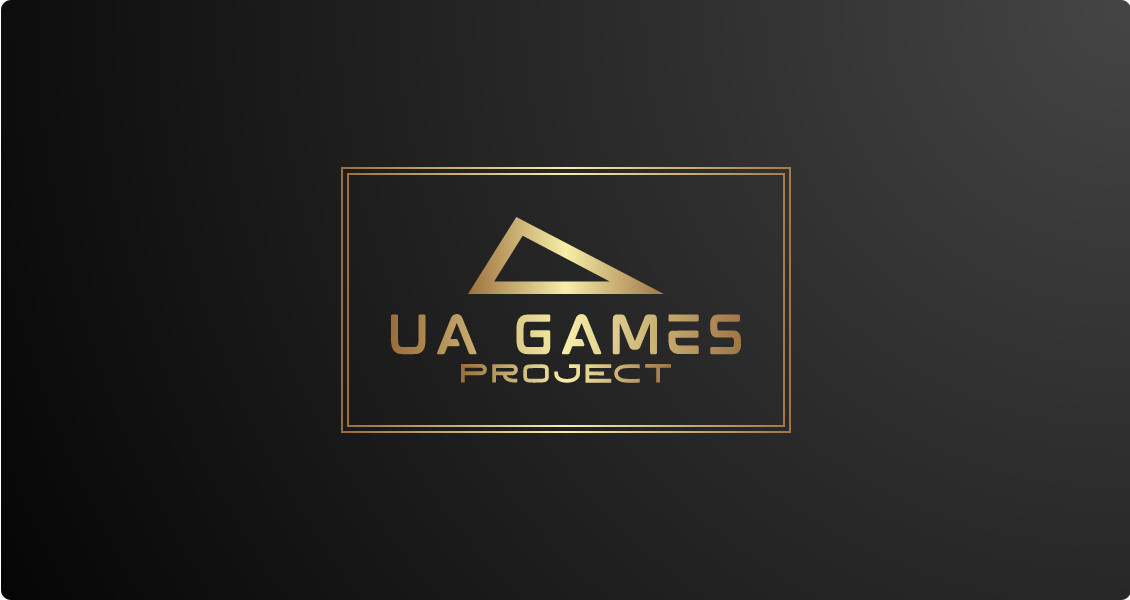
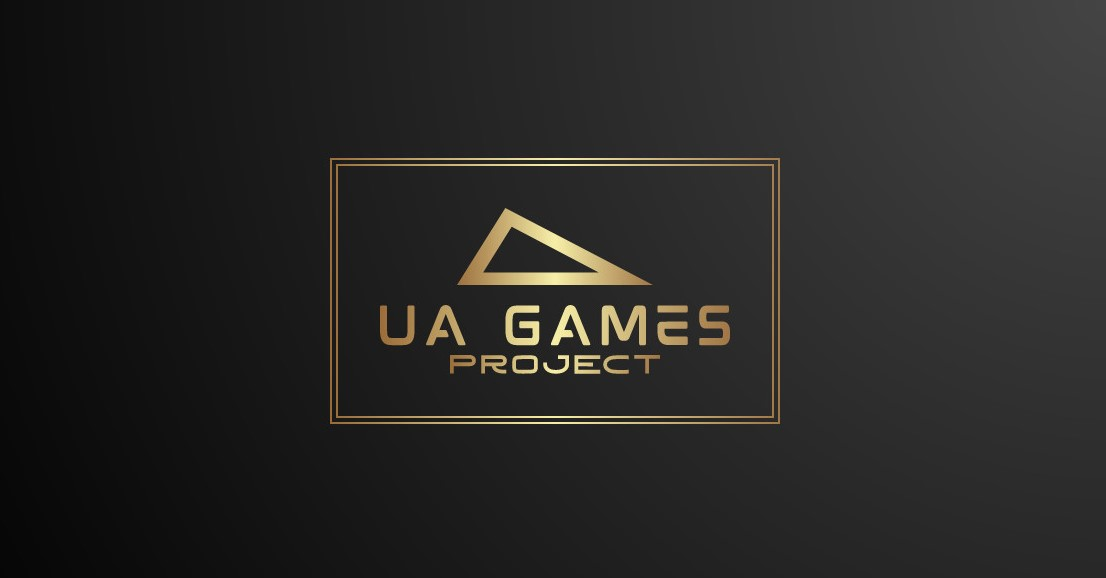
Header nuevo

diff --git a/_includes/nav.html b/_includes/nav.html
@@ -8,7 +8,9 @@
                 <span class="icon-bar"></span>
                 <span class="icon-bar"></span>
             </button>
-            <a class="navbar-brand page-scroll" href="#page-top">UAGames Proyect</a>
+            <a class="navbar-brand page-scroll" href="#page-top">
+                <img src="img/header.jpg" alt="UAGames Proyect" style="height: 100%;">
+            </a>
         </div>
 
         <!-- Collect the nav links, forms, and other content for toggling -->
@@ -32,3 +34,4 @@
     </div>
     <!-- /.container-fluid -->
 </nav>
+
